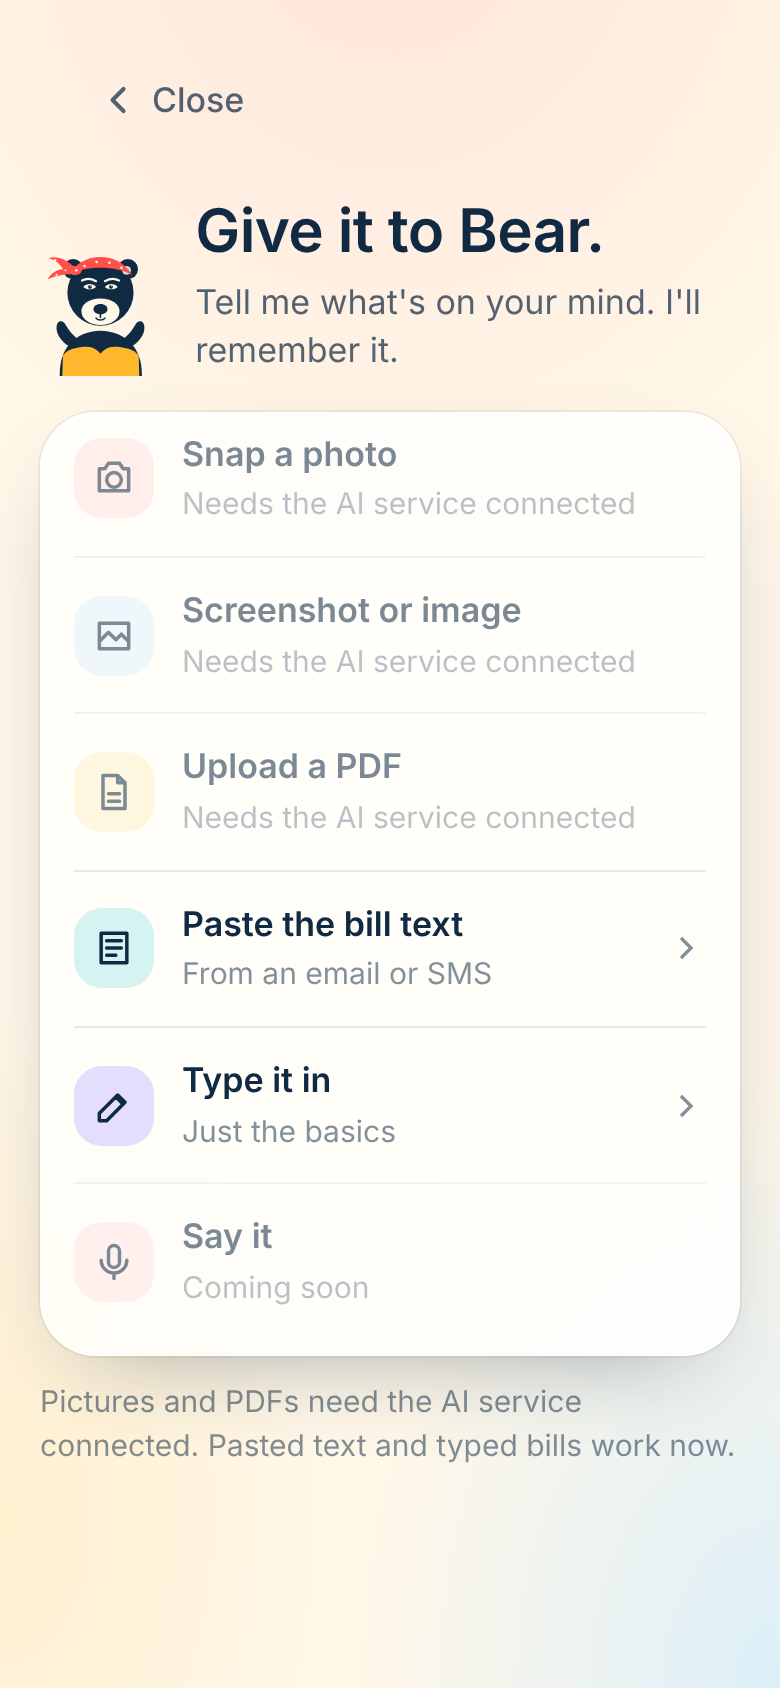
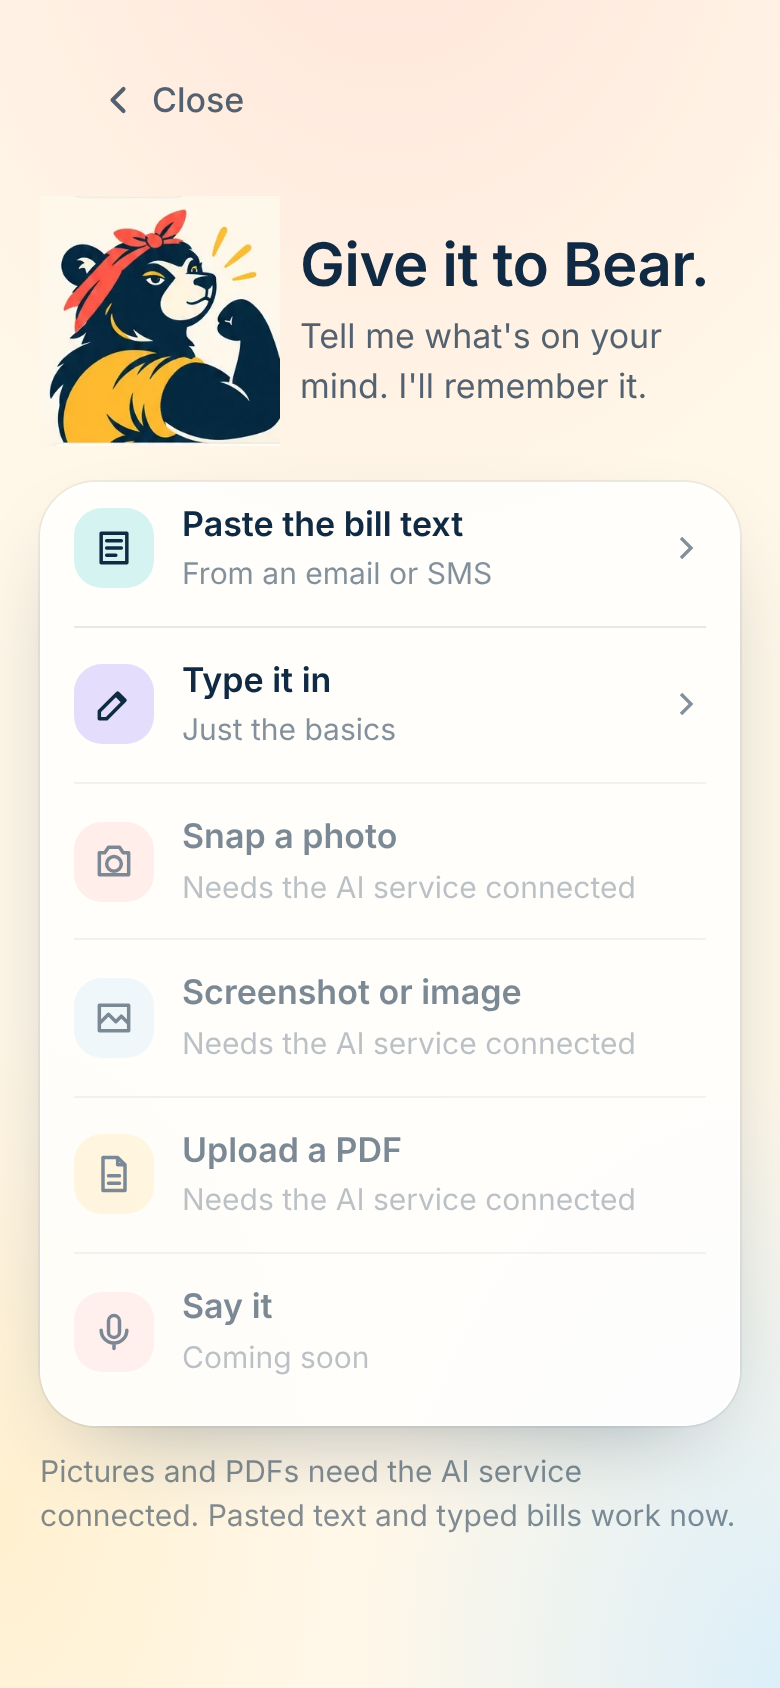
Load Bear: Needs tile art, Bear Ideas and rhythm empty states, sign-in lock-up and capture bear from supplied artwork
Claude-Session: https://claude.ai/code/session_01NP3Lwb2Y9rXumsgYeiVjZt

diff --git a/components/bear/capture-sheet.tsx b/components/bear/capture-sheet.tsx
@@ -6,7 +6,7 @@ import {brand} from '@/lib/bear/domain/copy';
 import {formatAUD} from '@/lib/bear/domain/money';
 import {formatAU} from '@/lib/bear/domain/dates';
 import type {Capture,ExtractedEntity} from '@/lib/bear/domain/types';
-import {BearHead} from './art';
+import {CaptureBear} from './art';
 import {BearThinking} from './bear-thinking';
 import {Button,ErrorCard,TopBar,useOnline} from './ui';
 
@@ -47,12 +47,12 @@ export function CaptureSheet(){
   <main id="main" className="bear-screen flow">
    <TopBar back={{onClick:close,label:mode==='menu'?'Close':'Back'}}/>
    {mode==='thinking'?<BearThinking preview={preview} fields={fields}/>:<>
-    <div style={{display:'flex',gap:14,alignItems:'flex-end'}}><BearHead size={84}/><div><h1>{brand.captureHeading}</h1><p className="muted" style={{marginTop:6}}>{brand.captureSub}</p></div></div>
+    <div style={{display:'flex',gap:10,alignItems:'center'}}><CaptureBear width={120}/><div><h1>{brand.captureHeading}</h1><p className="muted" style={{marginTop:6}}>{brand.captureSub}</p></div></div>
     {first&&<p className="note teal" style={{marginTop:14}}>Start with a bill. A screenshot of an email, a photo of the paper one, or just paste the text.</p>}
     {error&&<div style={{marginTop:14}}><ErrorCard message={error}/></div>}
     {!online&&<p className="note" style={{marginTop:14}} role="status">You&rsquo;re offline. Bear will be here when you&rsquo;re back.</p>}
     {mode==='menu'&&<div className="glass-strong" style={{padding:'8px 16px',marginTop:18}}>
-     {options.map(o=>{const off=('unavailable' in o&&o.unavailable)||(o.file&&aiAvailable===false);return <button key={o.key} type="button" className="row" style={{width:'100%',textAlign:'left',opacity:off?.55:1}} onClick={()=>pick(o)} aria-disabled={off} disabled={off}>
+     {[...options].sort((a,b)=>Number(('unavailable' in a&&a.unavailable)||(a.file&&aiAvailable===false))-Number(('unavailable' in b&&b.unavailable)||(b.file&&aiAvailable===false))).map(o=>{const off=('unavailable' in o&&o.unavailable)||(o.file&&aiAvailable===false);return <button key={o.key} type="button" className="row" style={{width:'100%',textAlign:'left',opacity:off?.55:1}} onClick={()=>pick(o)} aria-disabled={off} disabled={off}>
       <span className={`icon-dot ${o.key==='photo'?'coral':o.key==='screenshot'?'sky':o.key==='upload'?'mustard':o.key==='text'?'teal':o.key==='manual'?'lavender':'blush'}`}><svg width="22" height="22" viewBox="0 0 24 24" fill="none" stroke="currentColor" strokeWidth="1.9" strokeLinecap="round" strokeLinejoin="round" aria-hidden="true"><path d={o.icon}/></svg></span>
       <span className="grow"><span className="title">{o.label}</span><br/><span className="faint">{off?(o.file?'Needs the AI service connected':'Coming soon'):o.sub}</span></span>
       {!off&&<svg width="20" height="20" viewBox="0 0 24 24" fill="none" stroke="currentColor" strokeWidth="2" aria-hidden="true" style={{color:'var(--ink-3)'}}><path d="M9 6l6 6-6 6"/></svg>}

diff --git a/app/bear/onboarding/page.tsx b/app/bear/onboarding/page.tsx
@@ -10,7 +10,7 @@ import {BearSays} from '@/components/bear/brand';
 import {Horizon} from '@/components/bear/horizon';
 import {Button,Chip,Progress,Tile,Toast,TopBar} from '@/components/bear/ui';
 import {AreaArt,NeedArt,InterestArt,StrengthArt} from '@/components/bear/tile-art';
-import {strengthArt} from '@/components/bear/art';
+import {EmptyArt,needArt,strengthArt} from '@/components/bear/art';
 
 const steps=['areas','people','needs','interests','strengths','preferences','rhythm','capacity','done'] as const;
 type Step=typeof steps[number];
@@ -66,7 +66,7 @@ export default function Onboarding(){
    </section>}
    {step==='needs'&&<section>
     <h1>Where would another brain help?</h1><p className="muted" style={{marginTop:8}}>Bills &amp; money is where Bear is strongest right now.</p>
-    <div className="tiles section">{needsOptions.map(n=><Tile key={n} compact label={n} selected={pins.needs.includes(n)} onToggle={()=>update({pins:{...pins,needs:toggle(pins.needs,n)}})} art={<NeedArt label={n}/>}/>)}</div>
+    <div className="tiles section">{needsOptions.map((n,i)=><Tile key={n} compact side={!!needArt[n]} tint={['#FFE6E7','#E3F1FB','#D5F3F0','#FFEFC9','#E4DDFB'][i%5]} label={n} selected={pins.needs.includes(n)} onToggle={()=>update({pins:{...pins,needs:toggle(pins.needs,n)}})} art={<NeedArt label={n}/>}/>)}</div>
     <div className="btn-stack"><Button disabled={busy} onClick={()=>save({pins},'interests')}>Next</Button></div>
    </section>}
    {step==='interests'&&<section>
@@ -93,7 +93,7 @@ export default function Onboarding(){
      <div className="rhythm" aria-label={`Timeline for ${rhythmDay}`}>
       <div className="hours">{Array.from({length:18},(_,i)=><span key={i}>{hhmm((6+i)*60)}</span>)}</div>
       <div className="track">{dayBlocks.map(b=>{const start=Math.max(6*60,b.startMinute),end=b.endMinute<b.startMinute?24*60:Math.min(24*60,b.endMinute);const top=(start-6*60)/60*22,h=Math.max(20,(end-start)/60*22-2);return <button key={b.id} className={`block ${b.capacity}`} style={{top,height:h}} onClick={()=>setEditing(b.id)} aria-label={`${b.label} ${hhmm(b.startMinute)} to ${hhmm(b.endMinute)}, tap to adjust`}>{b.label}</button>;})}
-       {dayBlocks.length===0&&<p className="faint" style={{padding:14}}>Nothing yet for this day. Tap routines above to add them.</p>}
+       {dayBlocks.length===0&&<div style={{padding:14}}><p className="faint">Nothing yet for this day. Tap routines above to add them.</p><div style={{marginTop:40}}><EmptyArt file="empty-rhythm"/></div></div>}
       </div>
      </div>
      <p className="tiny faint" style={{marginTop:8}}>Coral: no room · Mustard: a little · Teal: good time for admin</p>

diff --git a/components/bear/ui.tsx b/components/bear/ui.tsx
@@ -8,8 +8,8 @@ export function Button({children,variant='primary',className='',href,...rest}:{c
 }
 export function Chip({label,selected,onToggle}:{label:string;selected:boolean;onToggle:()=>void}){return <button type="button" className="chip" aria-pressed={selected} onClick={onToggle}>{selected&&<Check/>}{label}</button>;}
 export function Check({size=16}:{size?:number}){return <svg width={size} height={size} viewBox="0 0 24 24" fill="none" stroke="currentColor" strokeWidth="3" strokeLinecap="round" strokeLinejoin="round" aria-hidden="true"><path d="M5 13l4 4L19 7"/></svg>;}
-export function Tile({label,sub,selected,onToggle,art,compact,photo,tint}:{label:string;sub?:string;selected:boolean;onToggle:()=>void;art:React.ReactNode;compact?:boolean;photo?:boolean;tint?:string}){
- return <button type="button" className={`tile ${compact&&!photo?'compact':''} ${photo?'photo':''}`} style={tint?{['--tile' as string]:tint}:undefined} aria-pressed={selected} onClick={onToggle}><span className="art" aria-hidden="true">{art}</span><span className="check" aria-hidden="true"><Check size={15}/></span><span className="label">{label}</span>{sub&&<span className="sub">{sub}</span>}</button>;
+export function Tile({label,sub,selected,onToggle,art,compact,photo,side,tint}:{label:string;sub?:string;selected:boolean;onToggle:()=>void;art:React.ReactNode;compact?:boolean;photo?:boolean;side?:boolean;tint?:string}){
+ return <button type="button" className={`tile ${compact&&!photo&&!side?'compact':''} ${photo?'photo':''} ${side?'side':''}`} style={tint?{['--tile' as string]:tint}:undefined} aria-pressed={selected} onClick={onToggle}><span className="art" aria-hidden="true">{art}</span><span className="check" aria-hidden="true"><Check size={15}/></span><span className="label">{label}</span>{sub&&<span className="sub">{sub}</span>}</button>;
 }
 export function Toast({message,kind='info',onDone}:{message:string|null;kind?:'info'|'error';onDone:()=>void}){
  useEffect(()=>{if(!message)return;const t=setTimeout(onDone,kind==='error'?5000:3200);return()=>clearTimeout(t);},[message,kind,onDone]);

diff --git a/components/bear/tile-art.tsx b/components/bear/tile-art.tsx
@@ -1,4 +1,4 @@
-import {strengthArt,TileImage} from './art';
+import {needArt,strengthArt,TileImage} from './art';
 // Abstract, screen-print style tile artwork in the brand palette. Replaceable by
 // licensed photography later via the `art` prop on Tile.
 const palettes:Record<string,[string,string,string]>={work:['#E3F1FB','#CFE7F7','#102A43'],family:['#FFE6E7','#FF9FA3','#FF5147'],home:['#FFEFC9','#FFB72B','#102A43'],money:['#D5F3F0','#18B7AA','#102A43'],health:['#FFE1DE','#FF5147','#102A43'],me:['#E4DDFB','#C9BDF5','#102A43']};
@@ -14,6 +14,6 @@ function Art({p,shape}:{p:[string,string,string];shape:number}){
 }
 const hash=(s:string)=>[...s].reduce((h,c)=>h+c.charCodeAt(0),0);
 export function AreaArt({area}:{area:string}){return <Art p={palettes[area]||palettes.me} shape={hash(area)}/>;}
-export function NeedArt({label}:{label:string}){const keys=Object.keys(palettes);const key=/bill|money/i.test(label)?'money':/school|birthday|family/i.test(label)?'family':/health|appointment/i.test(label)?'health':/work|form|admin/i.test(label)?'work':/meal|house/i.test(label)?'home':keys[hash(label)%keys.length];return <Art p={palettes[key]} shape={hash(label)}/>;}
+export function NeedArt({label}:{label:string}){const file=needArt[label];if(file)return <TileImage file={'need-'+file}/>;const keys=Object.keys(palettes);const key=/bill|money/i.test(label)?'money':/school|birthday|family/i.test(label)?'family':/health|appointment/i.test(label)?'health':/work|form|admin/i.test(label)?'work':/meal|house/i.test(label)?'home':keys[hash(label)%keys.length];return <Art p={palettes[key]} shape={hash(label)}/>;}
 export function InterestArt({label}:{label:string}){const keys=Object.keys(palettes);return <Art p={palettes[keys[hash(label)%keys.length]]} shape={hash(label)+1}/>;}
 export function StrengthArt({label}:{label:string}){const file=strengthArt[label];if(file)return <TileImage file={'strength-'+file}/>;const keys=Object.keys(palettes);return <Art p={palettes[keys[(hash(label)+2)%keys.length]]} shape={hash(label)+2}/>;}

diff --git a/components/bear/art.tsx b/components/bear/art.tsx
@@ -13,5 +13,9 @@ export function HeroBear({width=260}:{width?:number}){
 export function RoundBadge({size=140}:{size?:number}){
  return <img src={base+'badge-round.webp'} alt="Load Bear. Your mental load is ours to bear." width={size} height={size} style={{width:size,height:size,display:'block',margin:'0 auto'}}/>;
 }
+export const needArt:Record<string,string>={'School & childcare':'school-childcare','Appointments':'appointments','Work deadlines':'work-deadlines','Meals & groceries':'meals-groceries','Bills & money':'bills-money','Birthdays & presents':'birthdays-presents','Housework':'housework','Family calendar':'family-calendar','Health':'health','Activities & sport':'activities-sport','Forms & admin':'forms-admin','Things I just forget':'things-i-forget'};
+export function EmptyArt({file,alt=''}:{file:string;alt?:string}){return <img src={base+file+'.webp'} alt={alt} className="empty-art" loading="lazy"/>;}
+export function CompactLockup({width=300}:{width?:number}){return <img src={base+'lockup-compact.webp'} alt="Load Bear" style={{width,maxWidth:'100%',height:'auto',display:'block',mixBlendMode:'multiply'}}/>;}
+export function CaptureBear({width=120}:{width?:number}){return <img src={base+'capture-bear.webp'} alt="Mama Bear" style={{width,height:'auto',display:'block',mixBlendMode:'multiply',flex:'none'}}/>;}
 export const strengthArt:Record<string,string>={'Planning ahead':'planning-ahead','Getting things done':'getting-things-done','Looking after people':'looking-after-people','Money':'money','Work':'work','Routines':'routines','Cooking':'cooking','Staying active':'staying-active','Problem solving':'problem-solving','Asking for help':'asking-for-help','Keeping calm in chaos':'keeping-calm'};
 export function TileImage({file,alt=''}:{file:string;alt?:string}){return <img src={base+file+'.webp'} alt={alt} style={{width:'100%',height:'100%',objectFit:'cover',display:'block'}} loading="lazy"/>;}

diff --git a/app/bear/(app)/ideas/page.tsx b/app/bear/(app)/ideas/page.tsx
@@ -4,7 +4,7 @@ import {useRouter} from 'next/navigation';
 import {apiGet,apiSend} from '@/lib/bear/client';
 import {brand} from '@/lib/bear/domain/copy';
 import type {Suggestion} from '@/lib/bear/domain/types';
-import {BearHead} from '@/components/bear/art';
+import {EmptyArt} from '@/components/bear/art';
 import {Button,ErrorCard,Skeleton,Toast} from '@/components/bear/ui';
 export default function Ideas(){
  const router=useRouter();const [items,setItems]=useState<Suggestion[]|null>(null);const [error,setError]=useState<string|null>(null);const [toast,setToast]=useState<string|null>(null);const [leaving,setLeaving]=useState<string|null>(null);
@@ -22,7 +22,7 @@ export default function Ideas(){
    {error&&<div style={{marginTop:14}}><ErrorCard message={error} retry={load}/></div>}
    <div className="section">
     {!items&&!error&&<Skeleton/>}
-    {items&&items.length===0&&<div className="card" style={{display:'flex',gap:14,alignItems:'center'}}><BearHead size={64}/><p className="muted">{brand.ideasEmpty}</p></div>}
+    {items&&items.length===0&&<div className="card" style={{textAlign:'center'}}><EmptyArt file="empty-ideas"/><p style={{fontWeight:700,fontSize:19}}>Nothing to suggest right now.</p><p className="muted small" style={{marginTop:4}}>When Bear notices a pattern worth acting on, it&rsquo;ll show up here.</p></div>}
     {items?.map(s=><div key={s.id} className={`card ${leaving===s.id?'collapse-out':''}`}><p style={{fontWeight:700,fontSize:18}}>{s.title}</p><p className="muted small" style={{marginTop:6}}>{s.body}</p><div className="btn-row"><Button className="sm" variant="primary" disabled={leaving===s.id} onClick={()=>respond(s,'accept')}>{s.actionLabel}</Button><Button className="sm" variant="quiet" disabled={leaving===s.id} onClick={()=>respond(s,'reject')}>Not relevant</Button></div></div>)}
    </div>
    <Toast message={toast} onDone={()=>setToast(null)}/>

diff --git a/app/bear/signin/form.tsx b/app/bear/signin/form.tsx
@@ -3,8 +3,7 @@ import {useState} from 'react';
 import Link from 'next/link';
 import {useRouter,useSearchParams} from 'next/navigation';
 import {browserClient} from '@/lib/supabase/client';
-import {BearHead} from '@/components/bear/art';
-import {Wordmark} from '@/components/bear/brand';
+import {CompactLockup} from '@/components/bear/art';
 import {TopBar} from '@/components/bear/ui';
 export function SignInForm(){
  const params=useSearchParams();const router=useRouter();const [create,setCreate]=useState(params.get('mode')==='create');
@@ -19,7 +18,7 @@ export function SignInForm(){
  return (
   <main id="main" className="bear-screen flow">
    <TopBar back={{href:'/bear/welcome'}}/>
-   <div style={{display:'flex',alignItems:'center',gap:14,marginBottom:18}}><BearHead size={72}/><Wordmark size={28}/></div>
+   <div style={{marginBottom:18}}><CompactLockup width={320}/></div>
    <h1>{create?'Get yourself a Bear.':'Welcome back.'}</h1>
    <p className="muted" style={{marginTop:8}}>{create?"One account. Bear remembers the rest.":"Bear's been keeping everything where you left it."}</p>
    <form onSubmit={submit} style={{marginTop:10}}>

diff --git a/app/bear/bear.css b/app/bear/bear.css
@@ -210,3 +210,11 @@
 .bear .tile.photo[aria-pressed="true"]{filter:none;}
 .bear .tiles.three .tile.photo{min-height:140px;}
 .bear .tiles.three .tile.photo .art{inset:0 0 40px 0;}
+
+/* Side tiles: label left, supplied illustration right (Needs). */
+.bear .tile.side{min-height:96px;padding:0 0 0 14px;flex-direction:row;align-items:center;justify-content:space-between;background:var(--tile,#fff);filter:none;}
+.bear .tile.side .art{position:relative;inset:auto;width:44%;height:96px;flex:none;order:2;}
+.bear .tile.side .label{flex:1;order:1;padding:10px 6px 10px 0;font-size:15px;line-height:1.15;}
+.bear .tile.side .check{top:auto;bottom:8px;left:8px;right:auto;width:22px;height:22px;}
+.bear .tile.side[aria-pressed="true"]{filter:none;}
+.bear .empty-art{display:block;width:100%;max-width:300px;height:auto;margin:0 auto 8px;mix-blend-mode:multiply;}
